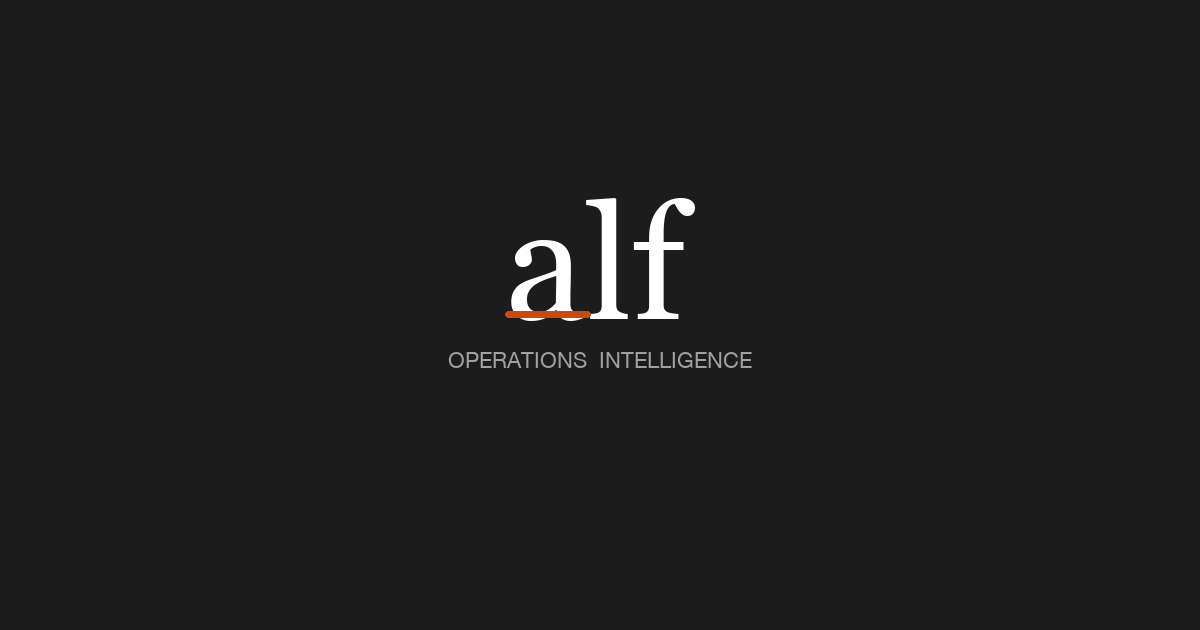
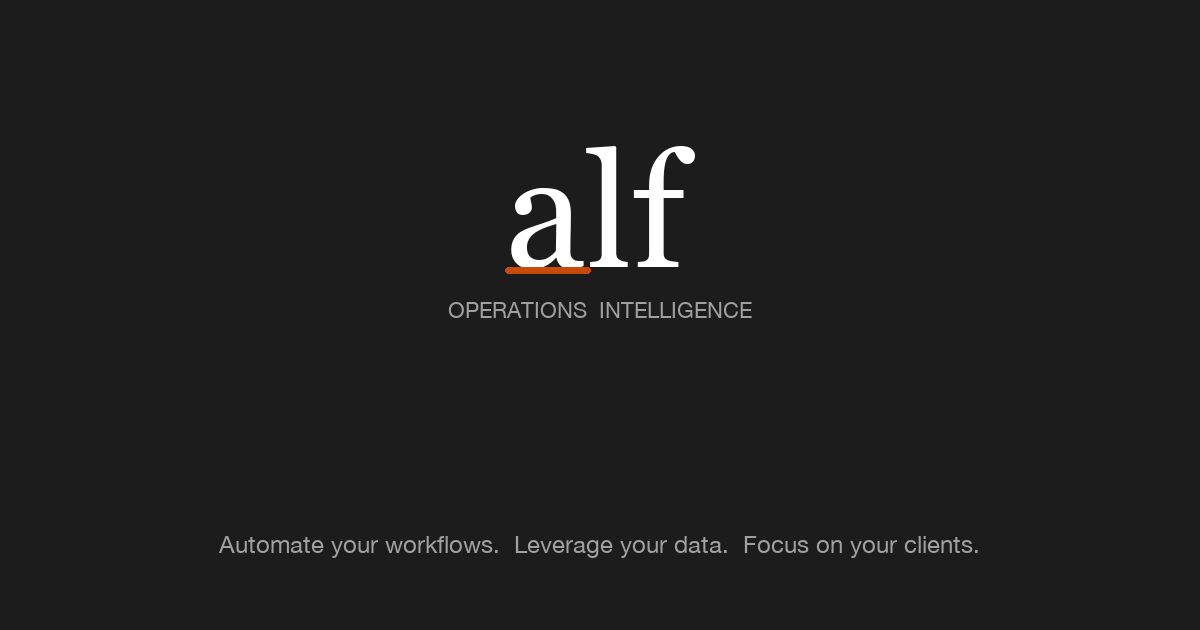
Fix OG image bar overlap, add tagline, update footer copy
OG image: moved orange bar below wordmark, added "Automate your
workflows. Leverage your data. Focus on your clients." tagline.
Footer: added same tagline above copyright. OG description updated
to match.

Changed region(s): [[0.37, 0.2111, 0.6475, 0.5127], [0.185, 0.8444, 0.8017, 0.8746], [0.37, 0.5429, 0.6167, 0.6032]]

diff --git a/index.html b/index.html
@@ -5,12 +5,12 @@
     <link rel="icon" type="image/svg+xml" href="/favicon.svg" />
     <meta name="viewport" content="width=device-width, initial-scale=1.0" />
     <title>alf | Operations Intelligence</title>
-    <meta name="description" content="AI agents that automate your back office so your team can focus on clients. Built for service operations companies." />
+    <meta name="description" content="Automate your workflows. Leverage your data. Focus on your clients. Built for service operations companies." />
 
     <!-- Open Graph -->
     <meta property="og:type" content="website" />
     <meta property="og:title" content="alf | Operations Intelligence" />
-    <meta property="og:description" content="AI agents that automate your back office so your team can focus on clients." />
+    <meta property="og:description" content="Automate your workflows. Leverage your data. Focus on your clients." />
     <meta property="og:image" content="https://alfpro.ai/og-image.png" />
     <meta property="og:url" content="https://alfpro.ai" />
     <meta property="og:site_name" content="alf" />
@@ -18,7 +18,7 @@
     <!-- Twitter Card -->
     <meta name="twitter:card" content="summary_large_image" />
     <meta name="twitter:title" content="alf | Operations Intelligence" />
-    <meta name="twitter:description" content="AI agents that automate your back office so your team can focus on clients." />
+    <meta name="twitter:description" content="Automate your workflows. Leverage your data. Focus on your clients." />
     <meta name="twitter:image" content="https://alfpro.ai/og-image.png" />
   </head>
   <body>

diff --git a/src/pages/marketing/MarketingLayout.jsx b/src/pages/marketing/MarketingLayout.jsx
@@ -59,7 +59,10 @@ export default function MarketingLayout() {
           <div className="flex items-center gap-2">
             <AlfMark variant="dark" size="md" />
           </div>
-          <div className="flex items-center gap-4 text-xs">
+          <p className="text-xs text-white/40 text-center md:text-right">
+            Automate your workflows. Leverage your data. Focus on your clients.
+          </p>
+          <div className="text-xs">
             <span>&copy; 2026 Alf &middot; Operations Intelligence</span>
           </div>
         </div>
